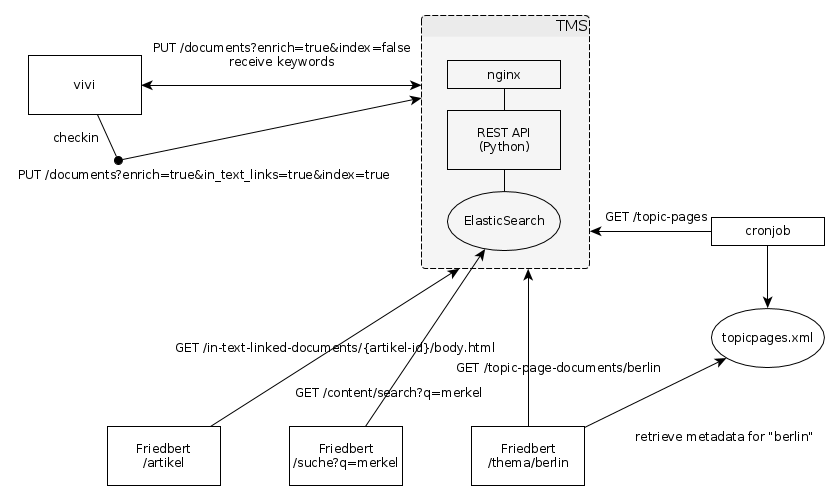
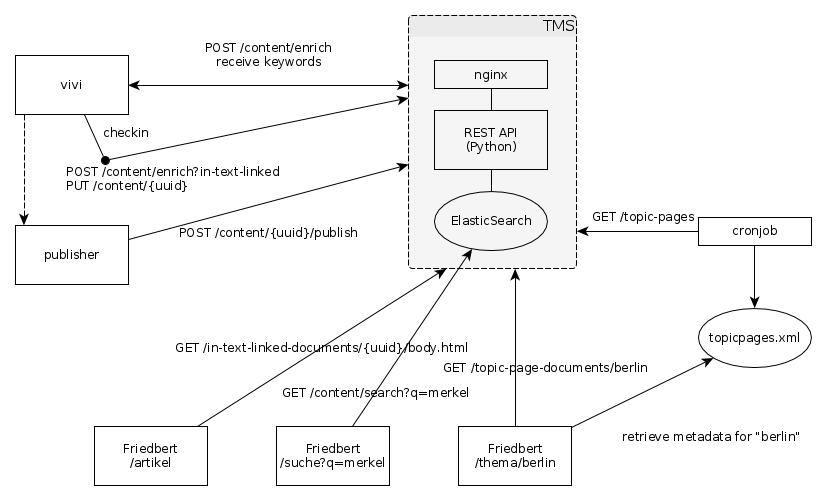
DOC: Update to changed TMS API

diff --git a/core/README.rst b/core/README.rst
@@ -54,7 +54,7 @@ Schlagworte generieren lassen
 -----------------------------
 
 Mit ``ITagger.update()`` wird der Content ans TMS geschickt, um ihn nach
-Schlagworten analysieren zu lassen (``PUT /documents?enrich=true``); das
+Schlagworten analysieren zu lassen (``POST /content/enrich``); das
 Ergebnis wird als XML serialisiert und in einer DAV-Property gespeichert.
 
 Für gepinnte sowie entfernte Schlagworte werden die IDs in weiteren
@@ -117,7 +117,7 @@ dass sie nicht mit einer solr-query, sondern einer Anfrage ans TMS arbeiten
 
 Um im TMS Themenseiten anlegen zu können, muss der Content dort verfügbar sein.
 Dazu übergibt vivi ihn beim Einchecken zum Indizieren ans TMS (``PUT
-/documents?index=true``).
+/content/<id>``).
 
 
 In-Text-Links
